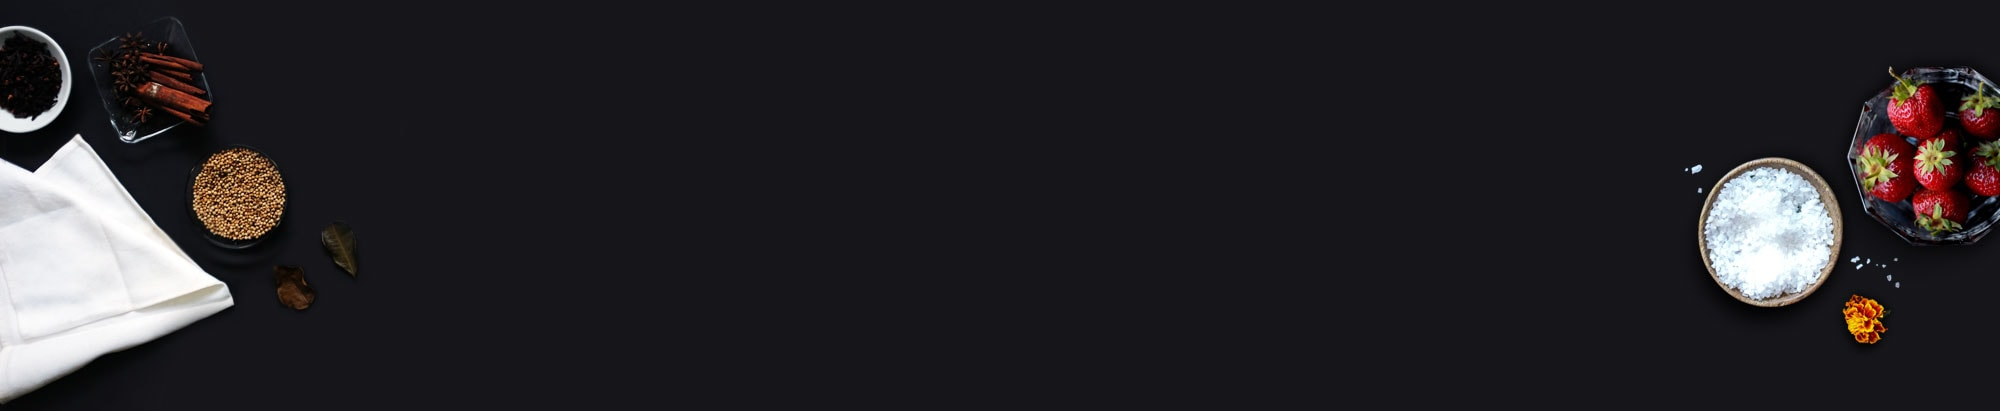
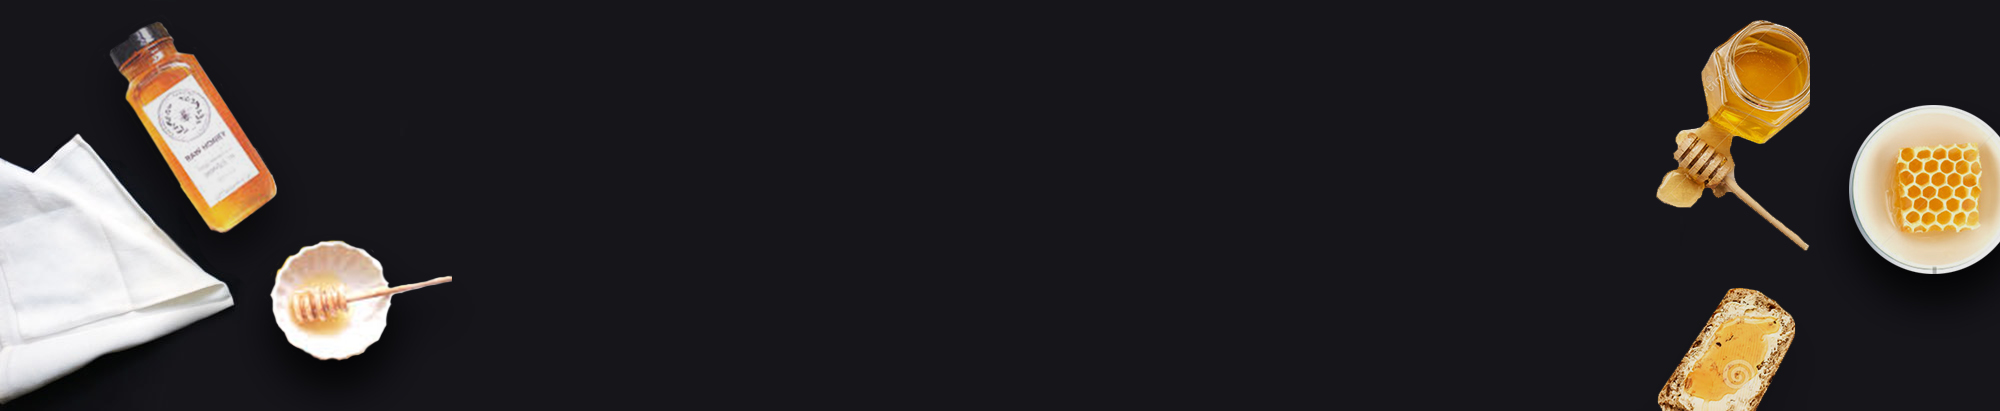
footer image

Changed region(s): [[0.806, 0.0292, 1.0, 1.0], [0.0, 0.0584, 0.248, 0.8759]]

diff --git a/wp-content/themes/yummy-child/footer.php b/wp-content/themes/yummy-child/footer.php
@@ -35,7 +35,28 @@ do_action( 'yummy_footer_start' );
  * @hooked yummy_footer_bottom_end - 25
  *
  */
-do_action( 'yummy_footer' );
+
+
+
+
+ /* Custom footer */
+ ?>
+ <footer id="colophon" class="site-footer col-1" role="contentinfo">
+ <div class="bottom-footer page-section" style="background-image: url('http://localhost/hunajawp/wordpress/wp-content/themes/yummy-child/assets/uploads/site-info.jpg');">
+ <div class="wrapper">
+ <div class="social-link">
+ <ul id="menu-footer" class="social-icons">
+ <li id="menu-item-48" class="menu-item menu-item-type-post_type menu-item-object-page menu-item-48">
+ <a href="http://localhost/hunajawp/wordpress/ota-yhteytta/">Ota Yhteyttä</a></li></ul></div><div class="site-info"> 
+ <span class="copyright">Copyright © 2017. All Rights Reserved</span> <span><a href="">Mesiäinen
+ </a></span></div></div></div></footer>
+<?php
+
+
+
+
+
+
 
 /**
  * yummy_footer_end hook
